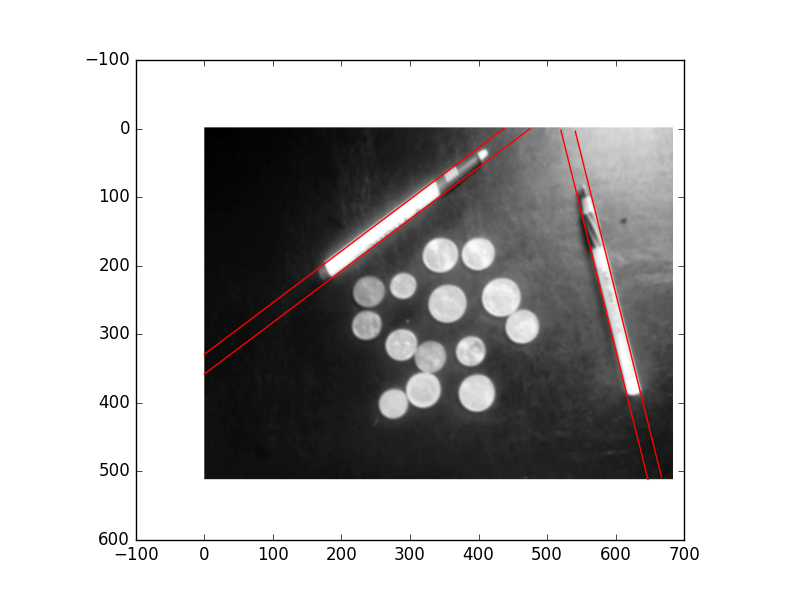
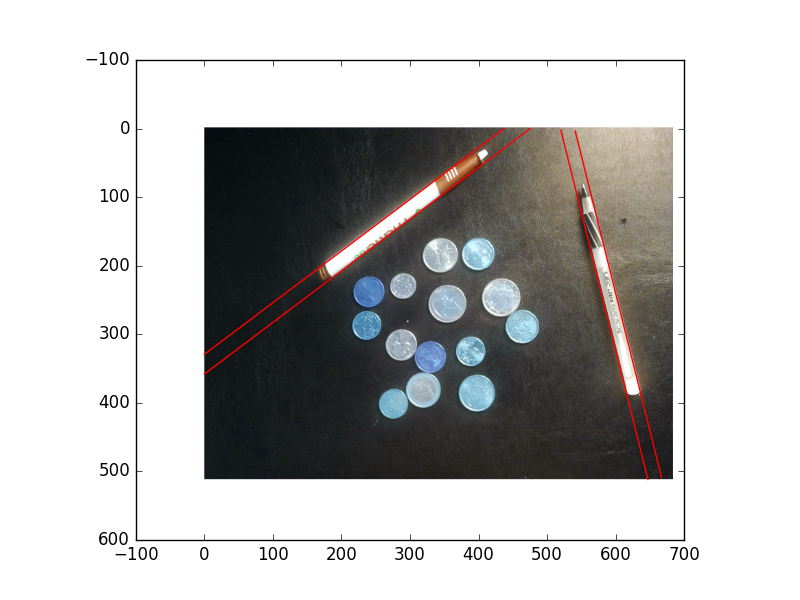
PS1.4

diff --git a/ps1_python/hough_lines.py b/ps1_python/hough_lines.py
@@ -51,7 +51,14 @@ def hough_peaks(acc, num, threshold = 60, neighborhood_size = 10):
 def hough_lines_draw(img, outname, peaks, rhoResolution=1.0, theta=range(0, 180, 1)):
 	plt.figure(2)
 	print img.shape
-	row, col = img.shape
+	row = 0
+	col = 0
+	size = 0
+	if len(img.shape) == 2:
+		row, col = img.shape
+	else:
+		row,col,size = img.shape
+
 	plt.imshow(img, cmap="Greys_r")
 	for (d, t) in peaks:
 		if math.fabs(math.sin(math.radians(t))) > 0.1:

diff --git a/ps1_python/ps1_4.py b/ps1_python/ps1_4.py
@@ -45,7 +45,7 @@ plt.plot(y_list, x_list, "ro")
 plt.savefig(PATH_out + "ps1-4-c-1.png")
 
 
-hough_lines_draw(img_smooth, PATH_out + "ps1-4-c-2.png", peaks)
+hough_lines_draw(img_origin, PATH_out + "ps1-4-c-2.png", peaks)
 
 plt.show()
 
